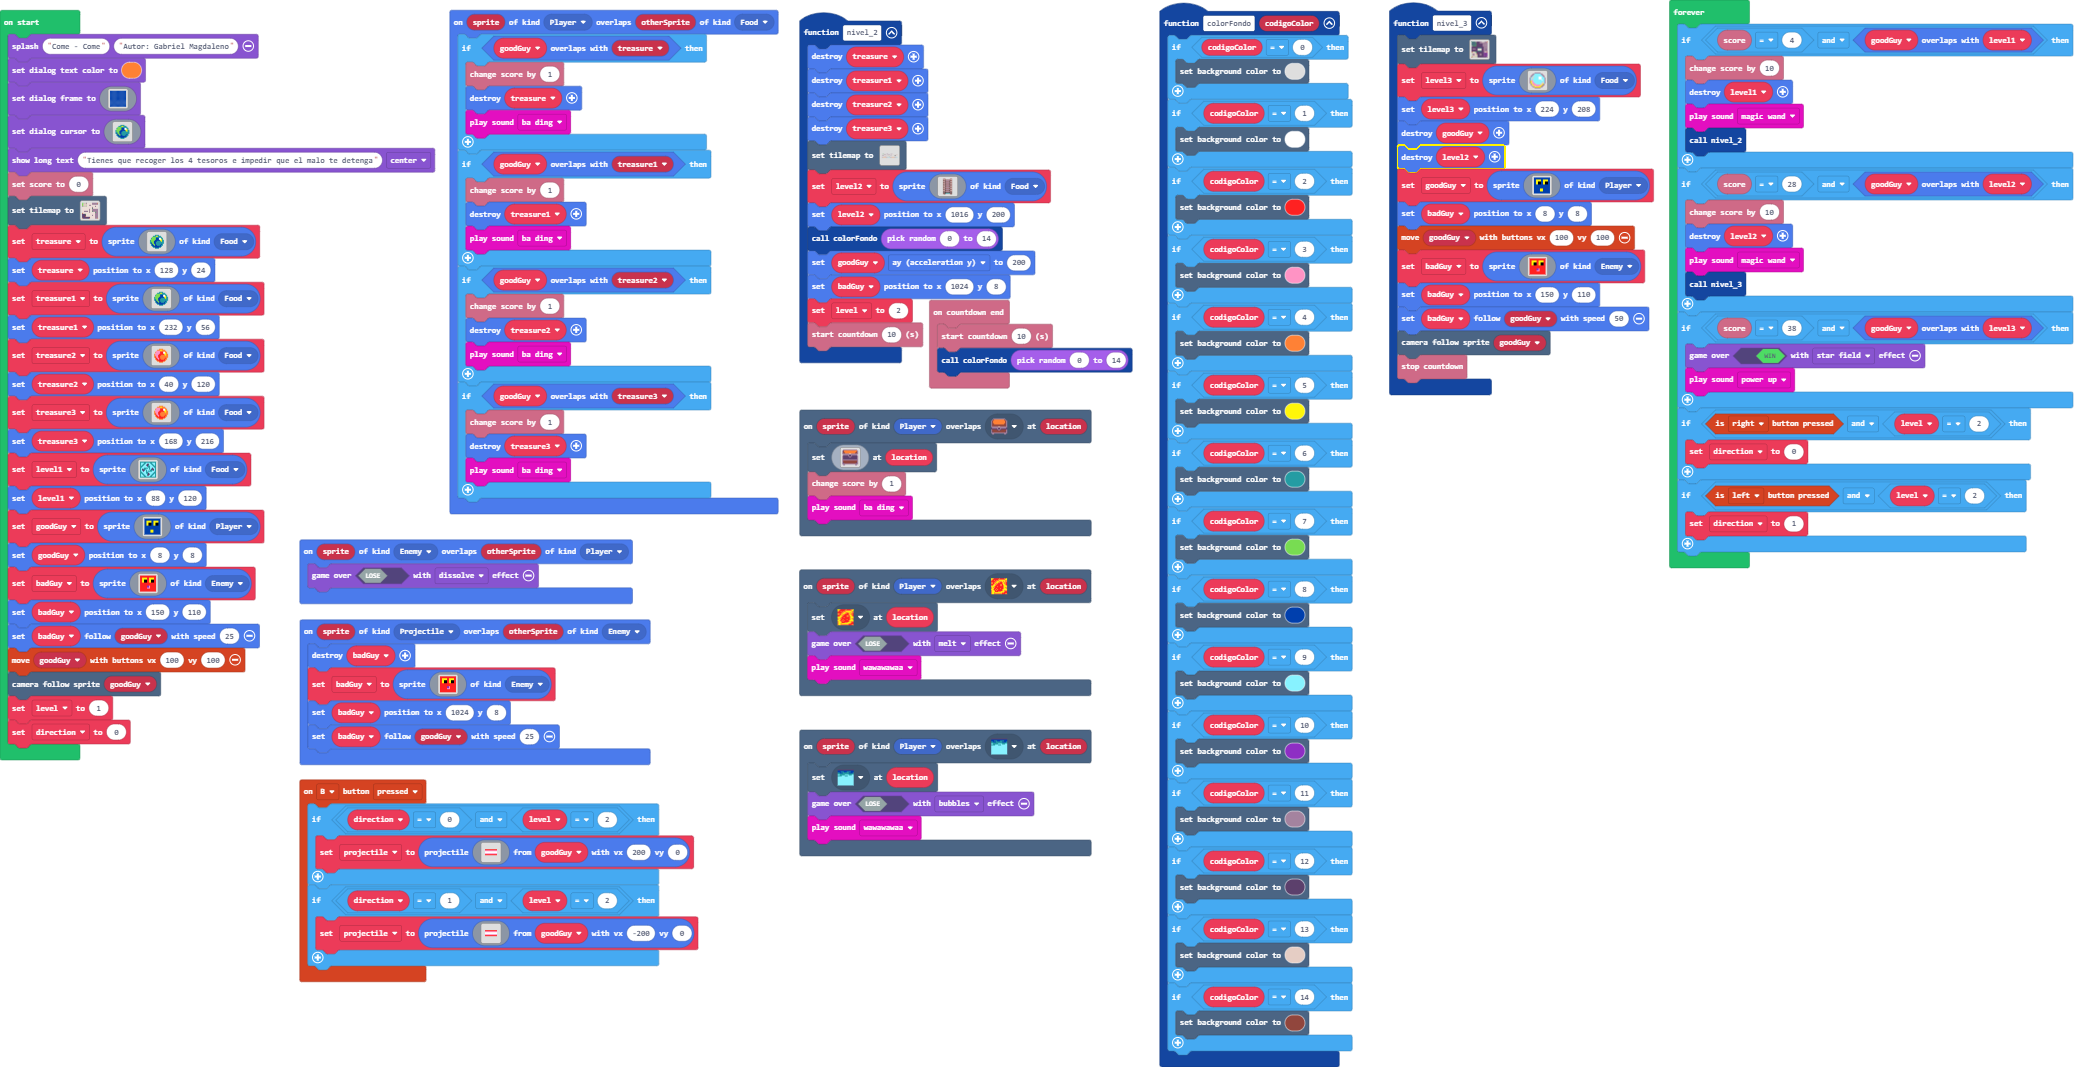
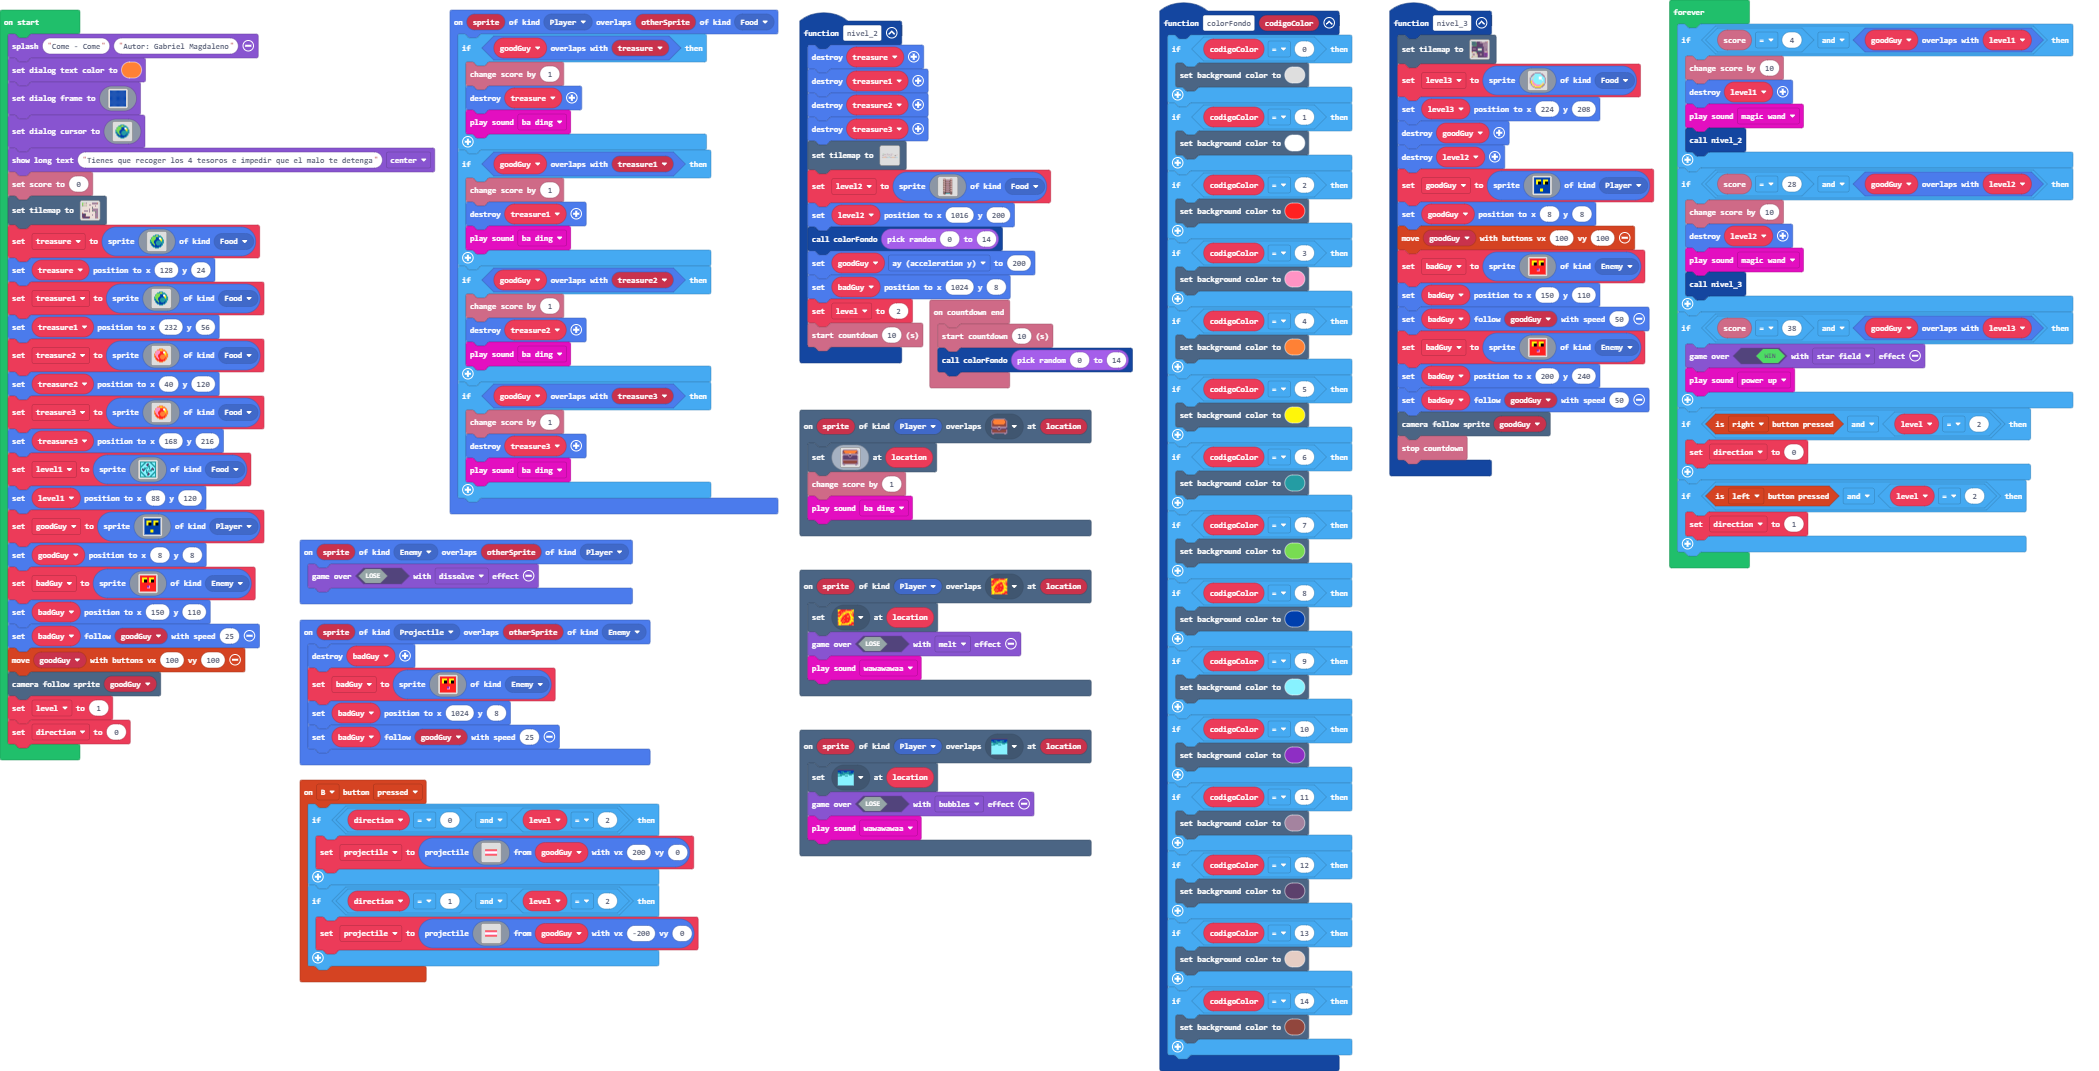
nivel 3 completo con 2 enemigos

diff --git a/main.ts b/main.ts
@@ -81,7 +81,7 @@ function nivel_3 () {
         8 8 8 8 8 8 8 8 8 8 8 8 8 8 8 8 
         8 8 8 8 8 8 8 8 8 8 8 8 8 8 8 8 
         `, SpriteKind.Player)
-    badGuy.setPosition(8, 8)
+    goodGuy.setPosition(8, 8)
     controller.moveSprite(goodGuy, 100, 100)
     badGuy = sprites.create(img`
         2 2 2 2 2 2 2 2 2 2 2 2 2 2 2 2 
@@ -102,6 +102,26 @@ function nivel_3 () {
         2 2 2 2 2 2 2 2 2 2 2 2 2 2 2 2 
         `, SpriteKind.Enemy)
     badGuy.setPosition(150, 110)
+    badGuy.follow(goodGuy, 50)
+    badGuy = sprites.create(img`
+        2 2 2 2 2 2 2 2 2 2 2 2 2 2 2 2 
+        2 2 2 2 2 2 2 2 2 2 2 2 2 2 2 2 
+        2 2 5 5 5 5 5 2 2 5 5 5 5 5 2 2 
+        2 2 5 5 5 5 5 2 2 5 5 5 5 5 2 2 
+        2 2 5 5 f f f 2 2 5 5 f f f 2 2 
+        2 2 5 5 f f f 2 2 5 5 f f f 2 2 
+        2 2 5 5 f f f 2 2 5 5 f f f 2 2 
+        2 2 2 2 2 2 2 2 2 2 2 2 2 2 2 2 
+        2 2 2 2 2 2 2 2 2 2 2 2 2 2 2 2 
+        2 2 2 2 2 2 2 2 2 2 2 2 2 2 2 2 
+        2 2 2 2 2 2 2 a a 3 2 2 2 2 2 2 
+        2 2 2 2 2 2 2 a a 3 2 2 2 2 2 2 
+        2 2 2 2 2 2 2 3 3 3 2 2 2 2 2 2 
+        2 2 2 2 2 2 2 2 2 2 2 2 2 2 2 2 
+        2 2 2 2 2 2 2 2 2 2 2 2 2 2 2 2 
+        2 2 2 2 2 2 2 2 2 2 2 2 2 2 2 2 
+        `, SpriteKind.Enemy)
+    badGuy.setPosition(200, 240)
     badGuy.follow(goodGuy, 50)
     scene.cameraFollowSprite(goodGuy)
     info.stopCountdown()
